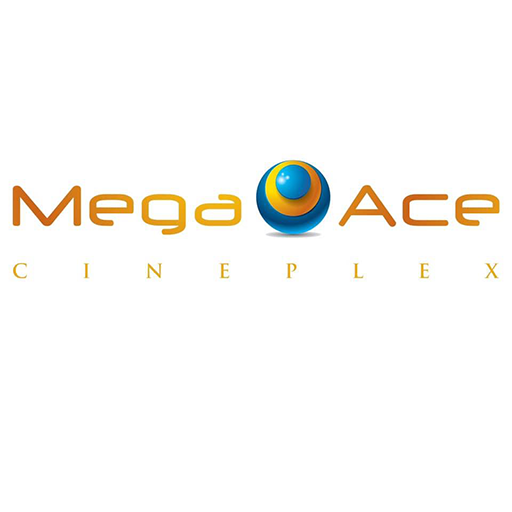
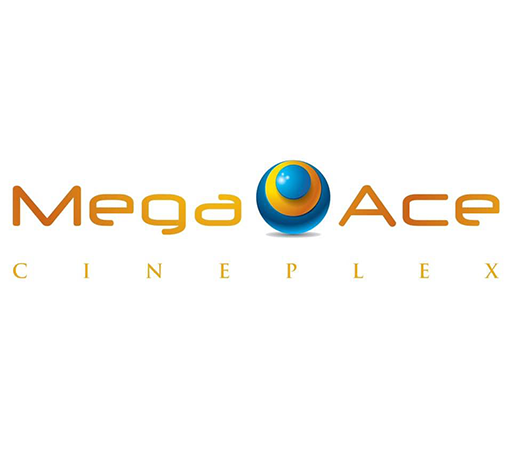
3 noon commit

diff --git a/index.html b/index.html
@@ -26,10 +26,7 @@
     <nav class="navbar navbar-expand-md sticky-top shadow-sm" id="nav">
         <div class="container-fluid">
             <a href="index.html" class="d-flex align-items-center text-decoration-none">
-                <img src="image/depositphotos_73179751-stock-illustration-vector-logo-slate-board-for.jpg" alt="" id="logo-img">
-                <span class="navbar-brand" id="cinema-label">
-                    <h5 class="ps-2">M-THEATER</h5>
-                </span>
+                <img src="image/IMG_20240924_142602_514.png" alt="" id="logo-img">
             </a>
             <button class="navbar-toggler" type="button" data-bs-toggle="collapse" data-bs-target="#navbarNav" aria-controls="navbarNav" aria-expanded="false" aria-label="Toggle navigation">
                 <i class="fa-solid fa-bars"></i>

diff --git a/style.css b/style.css
@@ -61,10 +61,9 @@ body{
 }
 #logo-img{
     display: block;
-    width: 50px;
+    width: 120px;
     height: 50px;
-    border-radius: 50%;
-    border: 1px solid white;
+    object-fit: cover;
 }
 #cinema-label{
     margin-top: 4px;
@@ -131,10 +130,10 @@ body{
     }
 }
 @media screen and (max-width: 348px){
-    #logo-img{
+    /* #logo-img{
         width: 35px;
         height: 35px;
-    }
+    } */
     #cinema-label > h5{
         font-size: 12pt !important;
     }
